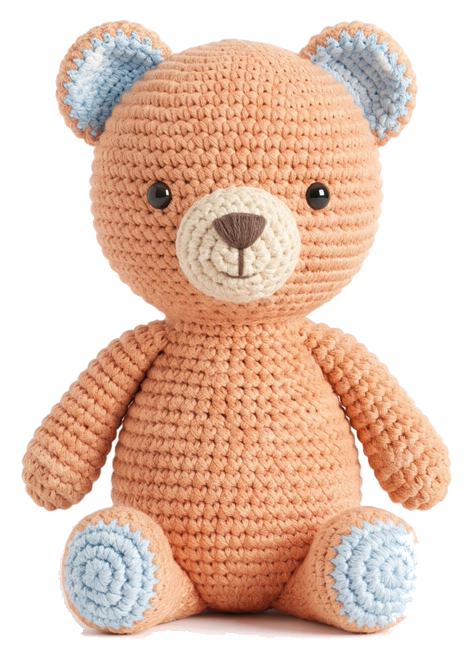
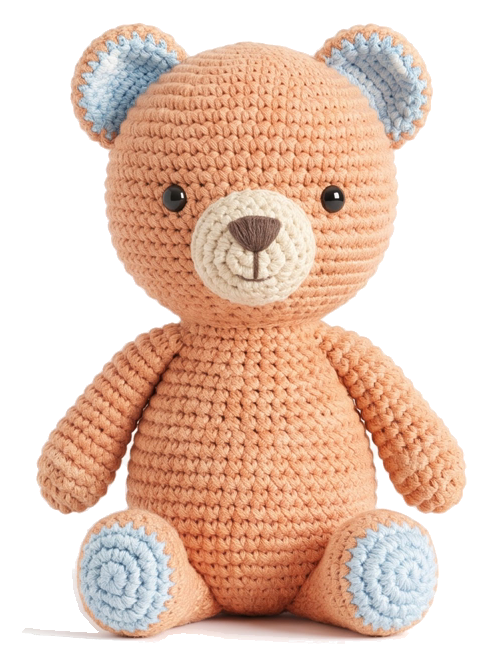
P5 S5-1 이미지를 처음 크기의 50%로 축소, 곰 발바닥 누끼 수정
- S5-1 상자 380px·사진 220px·여백 40/24px(비율 유지)
- 곰 사진: 배경과 비슷한 연한 하늘색 발바닥이 지워지지 않게 질감으로 배경 판단
- PROJECT_CONTEXT 반영

diff --git a/src/styles/site.css b/src/styles/site.css
@@ -1138,7 +1138,7 @@ svg {
 }
 
 .doll--large {
-  padding: 64px 38px; /* 80·48 → 80% */
+  padding: 40px 24px; /* 처음 80·48 → 50% */
 }
 
 .doll--small {
@@ -1279,7 +1279,7 @@ svg {
 /* P5 — 최종 이미지는 크게 단독으로, 주변을 비움 */
 .result__image {
   width: 100%;
-  max-width: 608px; /* 760 → 80% (2026-11-17 답변: 상자·사진·여백을 같은 비율로 줄임) */
+  max-width: 380px; /* 처음 760 → 50% (2026-11-17 답변: 상자·사진·여백을 같은 비율로 줄임) */
   margin: var(--space-7) auto var(--space-5);
 }
 
@@ -1412,7 +1412,7 @@ svg {
 
 /* 사진 인형 크기 — P5 크게, OV-01 미리보기 작게 */
 .doll--large .photo-doll {
-  max-width: 352px; /* 440 → 80% */
+  max-width: 220px; /* 처음 440 → 50% */
 }
 
 .overlay__preview .photo-doll {

diff --git a/PROJECT_CONTEXT.md b/PROJECT_CONTEXT.md
@@ -70,7 +70,7 @@
 | **P2 디자인 선택** | **S2-1 페이지 제목** — 제목 "어떤 친구를 떠 드릴까요?" / 안내 "디자인을 고르면 색과 털실, 크기를 정하는 단계로 넘어가요." (출처: 04)<br>**S2-2 디자인 둘러보기** — 여섯 친구 실제 사진 6장 3D 곡면 캐러셀(`AlbumRail`, P1 S1-2에서 옮겨 옴). 3번째 카드(토끼)에서 시작해 양옆을 채우고, 카드 간격을 넓힘(가운데↔이웃 230px, 바깥 170px, 휴대폰은 70%) (2026-11-17 답변). 아래 컨트롤: 처음으로 · 이전 · 진행 바 · 다음 · 끝으로 버튼, 키보드 Home/End로 처음/끝 이동 (2026-11-17 답변). 가운데 카드를 누르면 그 디자인의 P3. 진행 바, 로고 재생 버튼, 실타래 꺼내기 (2026-11-17 답변). ~~3열 × 2행 일러스트 카드~~ (출처: 04, 05) | **B2-1 강아지 / B2-2 고양이 / B2-3 토끼 / B2-4 곰 / B2-5 오리 / B2-6 호랑이** → 모두 P3 (고른 디자인으로 시작) (출처: 04) |
 | **P3 커스텀** | 색상·털실·크기를 **한 페이지**에서 선택 (출처: 02)<br>**S3-1 진행 안내** (전체 너비) — 제목 "{디자인 이름} 꾸미기" (예: "토끼 꾸미기") / 안내 "색 → 털실 → 크기 순서로 골라 주세요. 고른 색은 미리보기에 바로 보여요." (출처: 04) + 고르기 진행 막대(색상은 부위마다 한 칸, 털실·크기 각 한 칸 — 고를 때마다 칸이 채워짐, "n / 전체 골랐어요", 단계 이름을 누르면 그 항목으로 이동) (2026-11-17 답변)<br>본문 2단: 왼쪽 S3-2, 오른쪽 S3-3 → S3-4 → S3-5를 위→아래로 쌓음 (출처: 04)<br>**S3-2 인형 미리보기** (왼쪽, 너비 520) — 인형 미리보기 이미지(고른 색 즉시 반영). 카드 배경은 디자인과 상관없이 흰색 (2026-11-17 답변). 미리보기는 일러스트 대신 **실제 인형 사진에서 부위 색만 바꾸는 사진 인형**(`PhotoDoll`, 누끼 딴 투명 PNG + 부위 마스크, 뜨개 질감 유지). 원본: 강아지 `color_puppy`, 고양이 `color_kitty`, 토끼 `color_rabbit`, 곰 `color_bear`, 호랑이 `color_tiger`, 오리 `duck.01` (`assets/images`). 입 주변·코·입·수염 자수는 바꾸지 않음(입 주변 선택지는 넣지 않기로 함). 같은 사진 인형을 P5 최종 이미지·OV-01 미리보기와 이미지 저장·P6 주문 요약에도 사용 — 털실 질감 무늬는 사진에 반영되지 않음 (2026-11-17 답변) / 안내 "털실 느낌은 완성 화면에서 확인할 수 있어요." (출처: 04)<br>**S3-3 색상 선택** (오른쪽) — 부위 탭(디자인별 3개, 호랑이 4개) + 색상 칩 10개 (출처: 04, 답변2) (출처: 04)<br>**S3-4 털실 선택** (오른쪽) — 선택 카드 3개 + 털실 설명 상자(Figma 137:26, 2026-11-17 답변): 연분홍 바탕·회색 테두리, 왼쪽 이름·설명·"♥ 사진을 클릭하면 크게 볼 수 있어요!", 오른쪽 털실 사진(2:1, 누르면 크게 보기 레이어 — 바깥 클릭·Esc·× 로 닫힘). 고르기 전에는 "털실을 고르면 설명과 사진이 나와요."만. 사진: 부슬부슬 `src/images/yarn-fluffy.jpg`(원본 `Three_yarn_1.jpg`) / 벨벳형 `yarn-velvet.jpg`(`Three_yarn_2.jpg`) / 두툼한 `yarn-chunky.jpg`(`Three_yarn_3.jpg`). 휴대폰은 사진을 글 아래로. ~~안내 "다른 털실을 누르면 그 털실의 설명으로 바뀌어요."~~ 삭제 (출처: 04)<br>**S3-5 크기 선택** (오른쪽) — 크기 버튼 3칸: 10cm / 20cm / 30cm, 높이 기준 (출처: 04, 답변)<br>**S3-6 하단 버튼** (전체 너비) (출처: 04) | **B3-1 디자인 다시 고르기** → P2<br>**B3-2 완성하기** (핵심 행동) → P4 (출처: 04). 모든 부위의 색·털실·크기를 모두 골라야 이동하며, 빠진 항목이 있으면 이동을 막고 어느 항목을 고르지 않았는지 알려 줌 (출처: 답변) |
 | **P4 완성 로딩** (헤더 없음) | **S4-1 완성 로딩 연출** — 고른 털실이 뽑히는 이미지 / 가운데 문구 "고른 털실을 뽑아 인형을 뜨고 있어요" / 진행 막대 (출처: 02, 04) | 로딩이 끝나면 **자동 이동 → P5** (출처: 04) |
-| **P5 완성 페이지** | **S5-1 최종 이미지** — 고른 색 + 털실 질감이 반영된 최종 완성 이미지. 크게 단독으로 두고 주변을 비움 (출처: 04, 05). 처음에 아무것도 없다가 위에서부터 픽셀 칸(14px)이 하나씩 생기며 약 1.6초 동안 나타남(Pixel Reveal, 동작 줄이기 설정이면 바로 보임) (2026-11-17 답변). 크기는 상자 608px·사진 352px·여백 64/38px(이전의 80%, 비율 유지) (2026-11-17 답변)<br>**S5-2 선택 요약** — 항목명: 선택값 (색상 줄 수는 부위 수만큼, 호랑이 7줄). 예: 디자인: 토끼 / 색상 1: 분홍 (전체 바탕) / 색상 2: 검정 (눈) / 색상 3: 흰색 (귀·발바닥) / 털실: 부슬부슬한 털실 / 크기: 20cm (출처: 04)<br>**S5-3 하단 버튼** (출처: 04) | **B5-2 다시 꾸미기** → P3<br>**B5-3 저장·공유** → OV-01<br>**B5-1 주문하기** (핵심 행동) → P6 (출처: 04) |
+| **P5 완성 페이지** | **S5-1 최종 이미지** — 고른 색 + 털실 질감이 반영된 최종 완성 이미지. 크게 단독으로 두고 주변을 비움 (출처: 04, 05). 처음에 아무것도 없다가 위에서부터 픽셀 칸(14px)이 하나씩 생기며 약 1.6초 동안 나타남(Pixel Reveal, 동작 줄이기 설정이면 바로 보임) (2026-11-17 답변). 크기는 상자 380px·사진 220px·여백 40/24px(처음 크기의 50%, 비율 유지) (2026-11-17 답변)<br>**S5-2 선택 요약** — 항목명: 선택값 (색상 줄 수는 부위 수만큼, 호랑이 7줄). 예: 디자인: 토끼 / 색상 1: 분홍 (전체 바탕) / 색상 2: 검정 (눈) / 색상 3: 흰색 (귀·발바닥) / 털실: 부슬부슬한 털실 / 크기: 20cm (출처: 04)<br>**S5-3 하단 버튼** (출처: 04) | **B5-2 다시 꾸미기** → P3<br>**B5-3 저장·공유** → OV-01<br>**B5-1 주문하기** (핵심 행동) → P6 (출처: 04) |
 | **P6 주문 확인** | **S6-1 주문 요약** — 인형 이미지(작게) + 요약(P5 선택 요약과 같은 값) (출처: 04)<br>**S6-2 가격** — 크기·털실 종류에 따라 달라짐. 금액 [미정] — 크기×털실 가격표 자리만 만들고 화면에 [미정] 표시 (출처: 답변2). 가격은 다른 정보와 구분되게 표시 (출처: 01, 04, 05)<br>**S6-3 제작 기간** — [미정] 표시 (출처: 01, 04, 답변2)<br>**S6-4 하단 버튼** (출처: 04) | **B6-1 이전** → P5<br>**B6-2 확인** (핵심 행동, 실제 결제 없음) → P7 (출처: 04) |
 | **P7 주문 완료** | 실제 결제 없이 완료 안내만 보여 줌 (출처: 02, 04)<br>**S7-1 주문 요약** — 3줄: 상품: 손뜬 인형 · {디자인} / 옵션: {색1·색2·색3} / {털실} / {크기} / 결제 금액: [미정] (출처: 04)<br>**S7-2 주문 완료 안내** — 제목 "주문이 완료되었습니다." / 본문 "소중한 인형 친구는 손뜬 스튜디오가 한 땀 한 땀 만들고 있어요 ♬" / 이미지: 털실이 쌓인 바구니 안에 고른 인형(사진 인형, 고른 색)이 함께 있는 장면 — 바구니·털실은 코드로 그린 밝은 파스텔 라탄·털실(털실 색은 인형 바탕·포인트 색 + 파스텔), 바탕은 옅은 살구→분홍 (`BasketScene`, 2026-11-17 답변). ~~고른 털실이 뽑히는 연출 이미지~~ (출처: 04)<br>**S7-3 하단 버튼** (출처: 04) | **B7-1 처음으로** → P1 (출처: 04) |
 | **OV-01 저장·공유 레이어** (포함 확정, 답변2) | P5 위에 겹쳐 뜨는 레이어. 배경 어둡게, 가운데 창 너비 720 (출처: 04)<br>**SO1-1 완성 인형 미리보기** — 완성 인형 이미지<br>**SO1-2 저장·공유 버튼** (출처: 04) | **BO1-1 이미지 저장** → 동작 [미정]<br>**BO1-2 링크 복사** → 동작 [미정]<br>**BO1-3 닫기** → P5 (출처: 04, 가정) |
